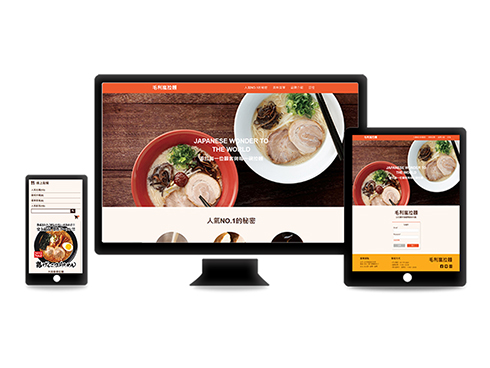
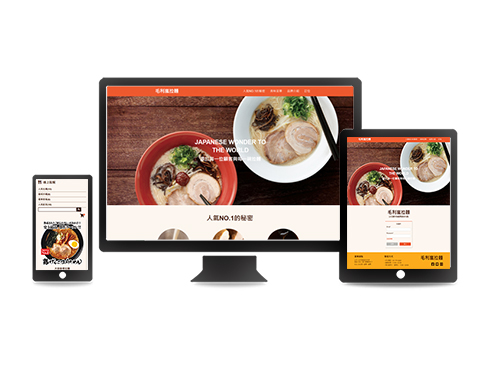
up

Changed region(s): [[0.0306, 0.1793, 0.9796, 0.8071], [0.551, 0.4783, 0.6429, 0.5082]]

diff --git a/index.html b/index.html
@@ -62,113 +62,140 @@
   <main id="main">
     <!-- ======= Works Section ======= -->
     <section class="section site-portfolio">
-      <div class="container">
-        <div id="portfolio-grid" class="row no-gutter" data-aos="fade-up" data-aos-delay="200">
+      <div class="container">        
+        <!--id="portfolio-grid" class="row g-5 flex-direction-row" data-aos="fade-up" data-aos-delay="200">-->
+        <div class="row g-5" data-aos="fade-up" data-aos-delay="200">
  <!--第1排 web-->         
-          <div class="item web col-sm-6 col-md-4 col-lg-4 mb-4">
-            <a href="work-moriranRamen.html" class="item-wrap fancybox">
+          <div class="item web col-sm-6 col-md-4 col-lg-4 mb-4 text-center">
+            <a href="work-funyoga.html" class="item-wrap fancybox mb-2 ">
               <div class="work-info">
-                <h3>毛利嵐拉麵</h3>
-                <span>網頁設計</span>
-              </div>
-              <img class="img-fluid" src="assets/img/img_11.jpg">
-            </a>
-          </div>
-          <div class="item web col-sm-6 col-md-4 col-lg-4 mb-4">
-            <a href="work-fussen.html" class="item-wrap fancybox">
-              <div class="work-info">
-                <h3>放森精油</h3>
-                <span>網頁設計</span>
-              </div>
-              <img class="img-fluid" src="assets/img/img_12.jpg">
-            </a>
-          </div>
-          <div class="item web col-sm-6 col-md-4 col-lg-4 mb-4">
-            <a href="work-huhhuh.html" class="item-wrap fancybox">
-              <div class="work-info">
-                <h3>蛤蛤募資</h3>
-                <span>網頁設計</span>
-              </div>
-              <img class="img-fluid" src="assets/img/img_13.jpg">
-            </a>
-          </div>
-<!--第2排-->
-          <div class="item design sf col-sm-6 col-md-4 col-lg-4 mb-4">
-            <a href="work01.html" class="item-wrap fancybox">
-              <div class="work-info">
-                <h3>SF RACING</h3>
-                <span>應用設計 /型錄 /帆布/ BANNER</span>
-              </div>
-              <img class="img-fluid" src="assets/img/img_18.jpg">
-            </a>
-          </div>
-          <div class="item design jvr col-sm-6 col-md-4 col-lg-4 mb-4">
-            <a href="work02.html" class="item-wrap fancybox">
-              <div class="work-info">
-                <h3>JVR DRIVE</h3>
-                <span>應用設計 /型錄 /帆布/ BANNER</span>
-              </div>
-              <img class="img-fluid" src="assets/img/img_15.jpg">
-            </a>
-          </div>
-
-          <div class="item design jvr col-sm-6 col-md-4 col-lg-4 mb-4">
-            <a href="work03.html" class="item-wrap fancybox">
-              <div class="work-info">
-                <h3>LASCO</h3>
-                <span>應用設計 /型錄 /WEB UI /海報</span>
-              </div>
-              <img class="img-fluid" src="assets/img/img_30.jpg">
-            </a>
-          </div>
-          <div class="item design jvr col-sm-6 col-md-4 col-lg-4 mb-4">
-            <a href="work04.html" class="item-wrap fancybox">
-              <div class="work-info">
-                <h3>MLD SPEED RACING</h3>
-                <span>Logo /型錄 /名片</span>
-              </div>
-              <img class="img-fluid" src="assets/img/img_32.jpg">
-            </a>
-          </div>
-<!--第3排-->
-
-          <div class="item design sf col-sm-6 col-md-4 col-lg-4 mb-4">
-            <a href="video08.html" class="item-wrap fancybox">
-              <div class="work-info">
-                <h3>ER&JVR Racing Team</h3>
-                <span>影片剪輯｜賽事活動</span>
-              </div>
-              <img class="img-fluid" src="assets/img/img_08-1.jpg">
-            </a>
-          </div>
-          <div class="item design sf col-sm-6 col-md-4 col-lg-4 mb-4">
-            <a href="video16.html" class="item-wrap fancybox">
-              <div class="work-info">
-                <h3>YUXI ENERGY</h3>
-                <span>影片剪輯｜產品簡介</span>
-              </div>
-              <img class="img-fluid" src="assets/img/img_16.jpg">
-            </a>
-          </div>
-          <div class="item design sf col-sm-6 col-md-4 col-lg-4 mb-4">
-            <a href="video17.html" class="item-wrap fancybox">
-              <div class="work-info">
-                <h3>YUXI ENERGY</h3>
-                <span>影片剪輯｜賽事活動</span>
+                 <h3>FUN YOGA</h3>
+                <!--<span>網頁設計</span> -->
               </div>
               <img class="img-fluid" src="assets/img/img_31.jpg">
             </a>
+            <span>網頁設計｜放瑜珈</span>
+          </div>
+
+          <div class="item web col-sm-6 col-md-4 col-lg-4 mb-4 text-center">
+            <a href="work-fussen.html" class="item-wrap fancybox mb-2">
+              <div class="work-info">
+                <h3>FUNSEN</h3>
+                <!-- <span>網頁設計</span> -->
+              </div>
+              <img class="img-fluid" src="assets/img/img_12.jpg">
+            </a>
+          <span>網頁設計｜放森精油</span>
+          </div>
+
+          <div class="item web col-sm-6 col-md-4 col-lg-4 mb-4 text-center">
+            <a href="work-huhhuh.html" class="item-wrap fancybox mb-2">
+              <div class="work-info">
+                <h3>HUH HUH</h3>
+                <!-- <span>網頁設計</span> -->
+              </div>
+              <img class="img-fluid" src="assets/img/img_13_1.jpg">
+            </a>
+            <span>網頁設計｜蛤蛤募資</span>
+          </div>
+
+          <div class="item web col-sm-6 col-md-4 col-lg-4 mb-4 text-center">
+            <a href="work-moriranRamen.html" class="item-wrap fancybox mb-2">
+              <div class="work-info">
+                <h3>MORIRAN RAMEN</h3>
+                <!-- <span>網頁設計</span> -->
+              </div>
+              <img class="img-fluid" src="assets/img/img_11_1.jpg">
+            </a>
+            <span>網頁設計｜毛利嵐拉麵</span>
+          </div>
+<!--第2排-->
+          <div class="item design sf col-sm-6 col-md-4 col-lg-4 mb-4 text-center">
+            <a href="work01.html" class="item-wrap fancybox mb-2">
+              <div class="work-info">
+                <h3>SF RACING</h3>
+                <!-- <span>應用設計 /型錄 /帆布/ BANNER</span> -->
+              </div>
+              <img class="img-fluid" src="assets/img/img_18.jpg">
+            </a>
+            <span>應用設計｜型錄｜帆布｜BANNER</span>
+          </div>
+          <div class="item design jvr col-sm-6 col-md-4 col-lg-4 mb-4 text-center">
+            <a href="work02.html" class="item-wrap fancybox mb-2">
+              <div class="work-info">
+                <h3>JVR DRIVE</h3>
+                <!-- <span>應用設計 /型錄 /帆布/ BANNER</span> -->
+              </div>
+              <img class="img-fluid" src="assets/img/img_15.jpg">
+            </a>
+            <span>應用設計｜型錄｜帆布｜BANNER</span>
+          </div>
+
+          <div class="item design jvr col-sm-6 col-md-4 col-lg-4 mb-4 text-center">
+            <a href="work03.html" class="item-wrap fancybox mb-2">
+              <div class="work-info">
+                <h3>LASCO</h3>
+                <!-- <span>應用設計 /型錄 /WEB UI /海報</span> -->
+              </div>
+              <img class="img-fluid" src="assets/img/img_30.jpg">
+            </a>
+            <span>應用設計｜型錄｜WEB UI｜海報</span>
+          </div>
+
+<!--第3排-->
+          <div class="item design jvr col-sm-6 col-md-4 col-lg-4 mb-4 text-center">
+            <a href="work04.html" class="item-wrap fancybox mb-2">
+              <div class="work-info">
+                <h3>MLD SPEED RACING</h3>
+                <!-- <span>Logo /型錄 /名片</span> -->
+              </div>
+              <img class="img-fluid" src="assets/img/img_32.jpg">
+            </a>
+            <span>Logo｜型錄｜名片</span>
+          </div>
+          <div class="item design sf col-sm-6 col-md-4 col-lg-4 mb-4 text-center">
+            <a href="video16.html" class="item-wrap fancybox mb-2">
+              <div class="work-info">
+                <h3>YUXI ENERGY</h3>
+                <!-- <span>影片剪輯｜產品簡介</span> -->
+              </div>
+              <img class="img-fluid" src="assets/img/img_16.jpg">
+            </a>
+            <span>影片剪輯｜產品簡介</span>
+          </div>
+
+          <div class="item design sf col-sm-6 col-md-4 col-lg-4 mb-4 text-center">
+            <a href="video08.html" class="item-wrap fancybox mb-2">
+              <div class="work-info">
+                <h3>ER & JVR RACING TEAM</h3>
+                <!-- <span>影片剪輯｜賽事活動</span> -->
+              </div>
+              <img class="img-fluid" src="assets/img/img_08-1.jpg">
+            </a>
+            <span>影片剪輯｜賽事活動</span>
+          </div>
+          <div class="item design sf col-sm-6 col-md-4 col-lg-4 mb-4 text-center">
+            <a href="video17.html" class="item-wrap fancybox mb-2">
+              <div class="work-info">
+                <h3>YUXI ENERGY</h3>
+                <!-- <span>影片剪輯｜賽事活動</span> -->
+              </div>
+              <img class="img-fluid" src="assets/img/img_35.jpg">
+            </a>
+            <span>影片剪輯｜賽事活動</span>
           </div>        
         </div>
+
       </div>
-    </section><!-- End  Works Section -->
+    </section>
+    <!-- End  Works Section -->
 
     <!-- ======= ABOUT Section ======= -->
   <section class="section pb-5">
-    <div class="container"">
+    <div class="container">
   
       <div class="row">
-        <div class="row justify-content-center text-center mb-4 ">
+        <div class="row justify-content-center text-center mb-4">
           <div class="col-4">
             <h3 class="h3 heading" id="about">ABOUT</h3>
           </div>

diff --git a/work-funyoga.html b/work-funyoga.html
@@ -1,0 +1,137 @@
+<!DOCTYPE html>
+<html lang="en">
+
+<head>
+  <meta charset="utf-8">
+  <meta content="width=device-width, initial-scale=1.0" name="viewport">
+
+  <title>Ting's Portfolio</title>
+  <meta content="" name="description">
+  <meta content="" name="keywords">
+
+  <!-- Favicons -->
+  <!--<link href="assets/img/favicon.png" rel="icon">-->
+  <link href="assets/img/apple-touch-icon.png" rel="apple-touch-icon">
+
+  <!-- Google Fonts -->
+  <link
+    href="https://fonts.googleapis.com/css?family=https://fonts.googleapis.com/css?family=Inconsolata:400,500,600,700|Raleway:400,400i,500,500i,600,600i,700,700i"
+    rel="stylesheet">
+
+  <!-- Vendor CSS Files -->
+  <link href="assets/vendor/aos/aos.css" rel="stylesheet">
+  <link href="assets/vendor/bootstrap/css/bootstrap.min.css" rel="stylesheet">
+  <link href="assets/vendor/bootstrap-icons/bootstrap-icons.css" rel="stylesheet">
+  <link href="assets/vendor/swiper/swiper-bundle.min.css" rel="stylesheet">
+
+  <!-- Template Main CSS File -->
+  <link href="assets/css/style.css" rel="stylesheet">
+
+  <!-- =======================================================
+  * Template Name: MyPortfolio - v4.5.0
+  * Template URL: https://bootstrapmade.com/myportfolio-bootstrap-portfolio-website-template/
+  * Author: BootstrapMade.com
+  * License: https://bootstrapmade.com/license/
+  ======================================================== -->
+</head>
+
+<body>
+
+  <!-- ======= Navbar ======= -->
+  <div class="container py-3">    
+      <nav class="navbar navbar-expand-lg navbar-light custom-navbar d-flex">
+            <a class="navbar-brand" href="index.html">
+              <h2>Hello, I'm TIN CHEN</h2>  
+            </a>
+            <button class="navbar-toggler" type="button" data-bs-toggle="collapse" data-bs-target="#navbarNavAltMarkup"
+              aria-controls="navbarNavAltMarkup" aria-expanded="false" aria-label="Toggle navigation">
+              <span class="navbar-toggler-icon"></span>
+            </button>
+            <div class="collapse navbar-collapse" id="navbarNavAltMarkup">
+              <div class="navbar-nav ms-auto">
+                <a class="nav-link active" href="index.html">HOME</a>
+                <a class="nav-link" href="about.html">ABOUT</a>
+                <a class="nav-link" href="experience.html">SKILL&EXPERIENCE</a>
+                <a class="nav-link" href="blog.html">BLOG</a>
+              </div>
+            </div>    
+          
+        
+      </nav>
+    
+  </div>
+  <!--End Navbar -->
+
+  <!-- ======= main ======= -->
+  <main id="main">
+
+    <section class="section">
+
+
+      <div class="site-section pb-0">
+        <div class="container">
+          <div class="row justify-content-center">
+            <div class="col-md-10 " data-aos="fade-up" data-aos-delay="100">
+              <div class="sticky-content">
+                <h3 class="fs-2">FunYoga</h3>
+                <p class="my-4 mb-5 h3">網頁設計</p>     
+                <p class="my-4 lh-lg">
+                  瑜珈師資培訓認證課程，擁有全球首創四大核心精隨，獨家專利雙證照，永久國際認可，並提供就業平台不需擔心<br>學習了沒舞台。以手刻方式撰寫HTML、CSS、RWD、SCSS內容為個人切版練習。               
+                </p>  
+
+              <p><a href="https://carefree0906.github.io/funyoga/" class="readmore" target="_blank">Visit Website</a></p>              
+              </div>
+            </div>
+            <div class="col-md-10 mb-5 mb-md-0" data-aos="fade-up">     
+              <div class="row gy-3 flex-column">
+                <img src="assets/img/funyoga01.jpg" alt="Image" class="img-fluid">
+                <img src="assets/img/funyoga02.jpg" alt="Image" class="img-fluid">
+                <div class="d-flex justify-content-between my-5">
+                  <img src="assets/img/funyoga-phone01.jpg" alt="Image" class="img-fluid" style="width:30%">
+                  <img src="assets/img/funyoga-phone04.jpg" alt="Image" class="img-fluid" style="width:30%">
+                  <img src="assets/img/funyoga-phone07.jpg" alt="Image" class="img-fluid" style="width:30%">
+                </div>
+                <!-- <div class="ratio ratio-16x9 mb-5">
+                  <iframe src="https://www.youtube.com/embed/#" title="YouTube video" allowfullscreen></iframe>
+                </div> -->
+              </div> 
+            </div>
+          </div>
+        </div>
+    </section>
+
+
+  </main><!-- End #main -->
+
+  <!-- ======= Footer ======= -->
+  <footer class="footer" role="contentinfo">
+    <div class="container">
+      <div class="row">
+        <div class="col-6 justify-content-center">
+          <p class="mb-1">&copy; Copyright MyPortfolio. All Rights Reserved</p>
+          <p class="credits">Designed by TING CHEN</p>
+        </div>
+        <div class="col-6 justify-content-center">
+          <a href="#" class="back-to-top d-flex  d-block align-items-center justify-content-end">
+            <i class="bi bi-arrow-up-circle-fill"></i>
+          </a>
+        </div>
+      </div>
+    </div>
+  </footer>
+  
+  <!--<i class="bi bi-arrow-up-short rounded rounded-circle bg-warning d-block" style="width:50px; hieght:50px"></i>-->
+  
+  <!-- Vendor JS Files -->
+  <script src="assets/vendor/aos/aos.js"></script>
+  <script src="assets/vendor/bootstrap/js/bootstrap.bundle.min.js"></script>
+  <script src="assets/vendor/isotope-layout/isotope.pkgd.min.js"></script>
+  <script src="assets/vendor/php-email-form/validate.js"></script>
+  <script src="assets/vendor/swiper/swiper-bundle.min.js"></script>
+  
+  <!-- Template Main JS File -->
+  <script src="assets/js/main.js"></script>
+  
+  </body>
+  
+  </html>

diff --git a/experience.html b/experience.html
@@ -54,7 +54,7 @@
             <a class="nav-link active" href="index.html">HOME</a>
             <a class="nav-link" href="about.html">ABOUT</a>
             <a class="nav-link" href="experience.html">SKILL&EXPERIENCE</a>
-            <a class="nav-link" href="about.html">BLOG</a>
+            <a class="nav-link" href="blog.html">BLOG</a>
           </div>
         </div>
      

diff --git a/assets/css/style.css b/assets/css/style.css
@@ -477,3 +477,9 @@ h1, h2, h3, h4, h5, h6, .font-heading {
   padding-left: 0;
   padding-right: 0;
 } */
+
+
+/* .flex-direction-row{
+  flex-direction: row !important;
+  justify-content: left;
+} */
